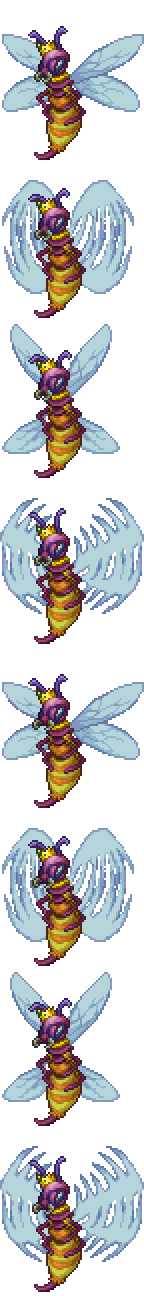
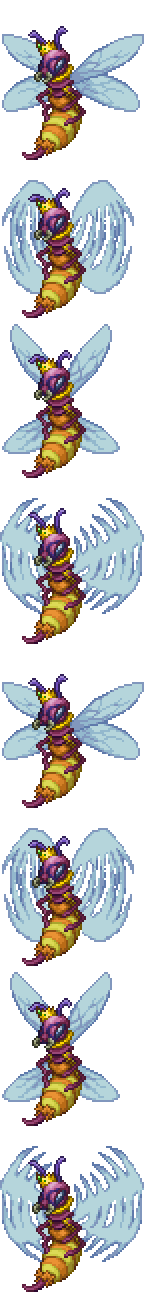
king sting sprite update and afterimage pos fix

diff --git a/NPCs/Bosses/PreHardmode/KingSting.cs b/NPCs/Bosses/PreHardmode/KingSting.cs
@@ -325,6 +325,7 @@ public class KingSting : ModNPC
                 attackType = 0;
             }
         }
+		//NPC.rotation = 0;
     }
     public void FlyTo(Vector2 endpoint, float accel)
     {
@@ -444,19 +445,17 @@ public class KingSting : ModNPC
     {
         if (afterImage)
         {
-            Vector2 drawOrigin = TextureAssets.Npc[NPC.type].Size() / new Vector2(2, (Main.npcFrameCount[NPC.type] * 2));
-
             SpriteEffects spriteEffect;
             if (NPC.spriteDirection == 1)
                 spriteEffect = SpriteEffects.FlipHorizontally;
             else
                 spriteEffect = SpriteEffects.None;
 
-            for (int i = 0; i < NPC.oldPos.Length; i++)
+            for (int i = NPC.oldPos.Length - 1; i > 0; i--)
             {
-                Vector2 drawPos = NPC.oldPos[i] - Main.screenPosition + drawOrigin + new Vector2(0f, NPC.gfxOffY);
-                Color color = NPC.GetAlpha(lightColor) * ((float)(NPC.oldPos.Length - i) / NPC.oldPos.Length);
-                spriteBatch.Draw(TextureAssets.Npc[NPC.type].Value, drawPos, NPC.frame, color, NPC.rotation, drawOrigin, NPC.scale, spriteEffect, 0f);
+				Vector2 drawPos = NPC.oldPos[i] + new Vector2(NPC.width / 2, NPC.height / 2) - Main.screenPosition - new Vector2(0, 7); // I have no idea where this 7 offset comes from, but if it doesn't have it then it doesn't draw in the same position as the main npc sprite
+				Color color = NPC.GetAlpha(lightColor) * ((float)(NPC.oldPos.Length - i) / NPC.oldPos.Length) * 0.5f;
+				Main.EntitySpriteDraw(TextureAssets.Npc[NPC.type].Value, drawPos, NPC.frame, color, NPC.oldRot[i], NPC.frame.Size() / 2f, NPC.scale, spriteEffect, 0f);
             }
         }
         return true;
